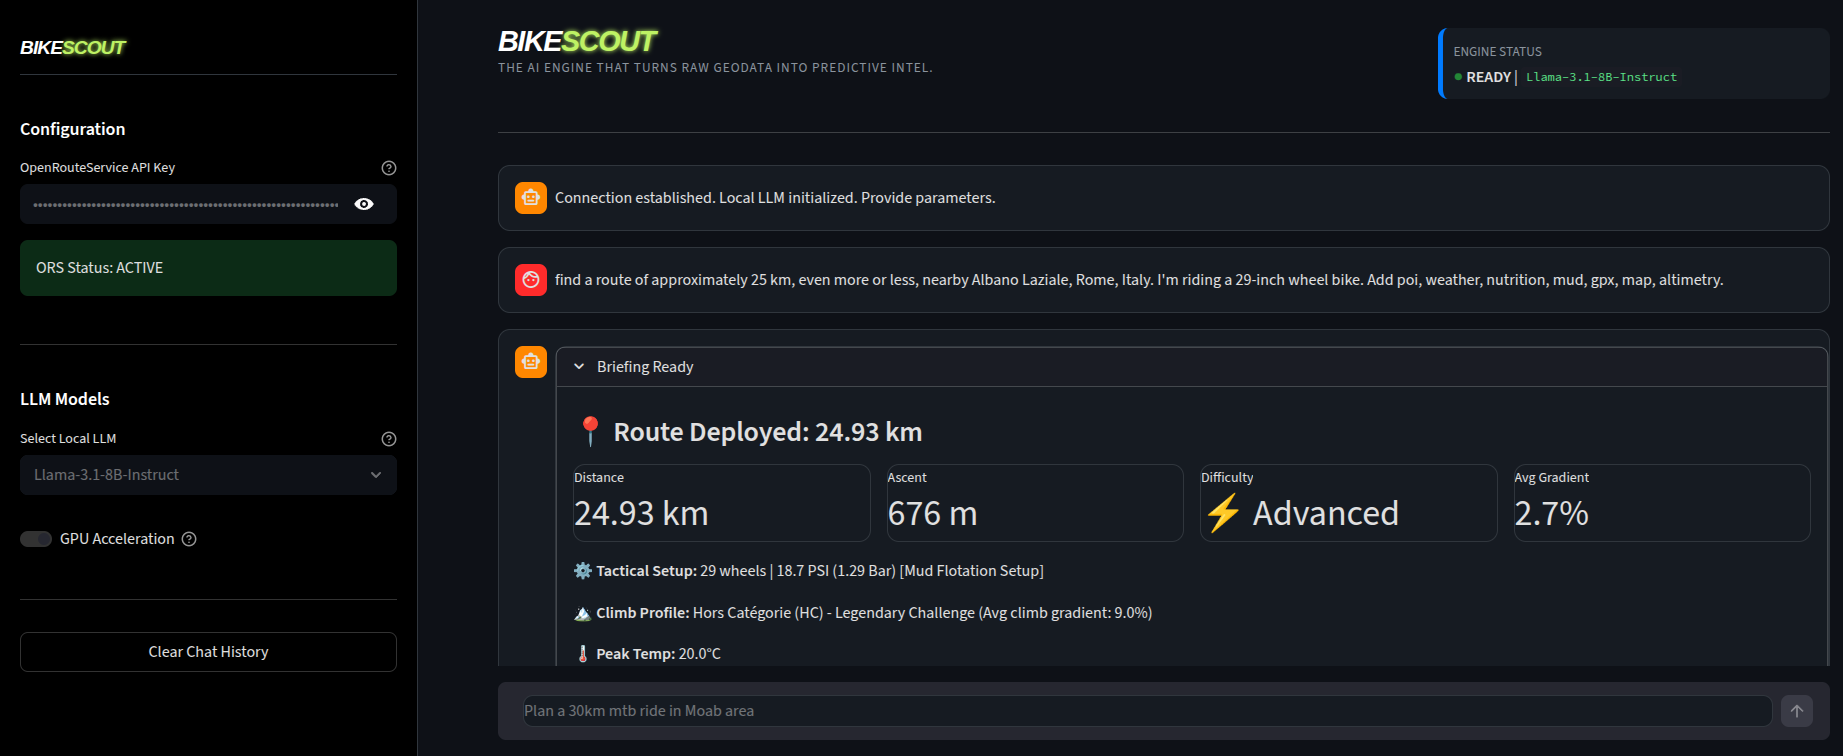
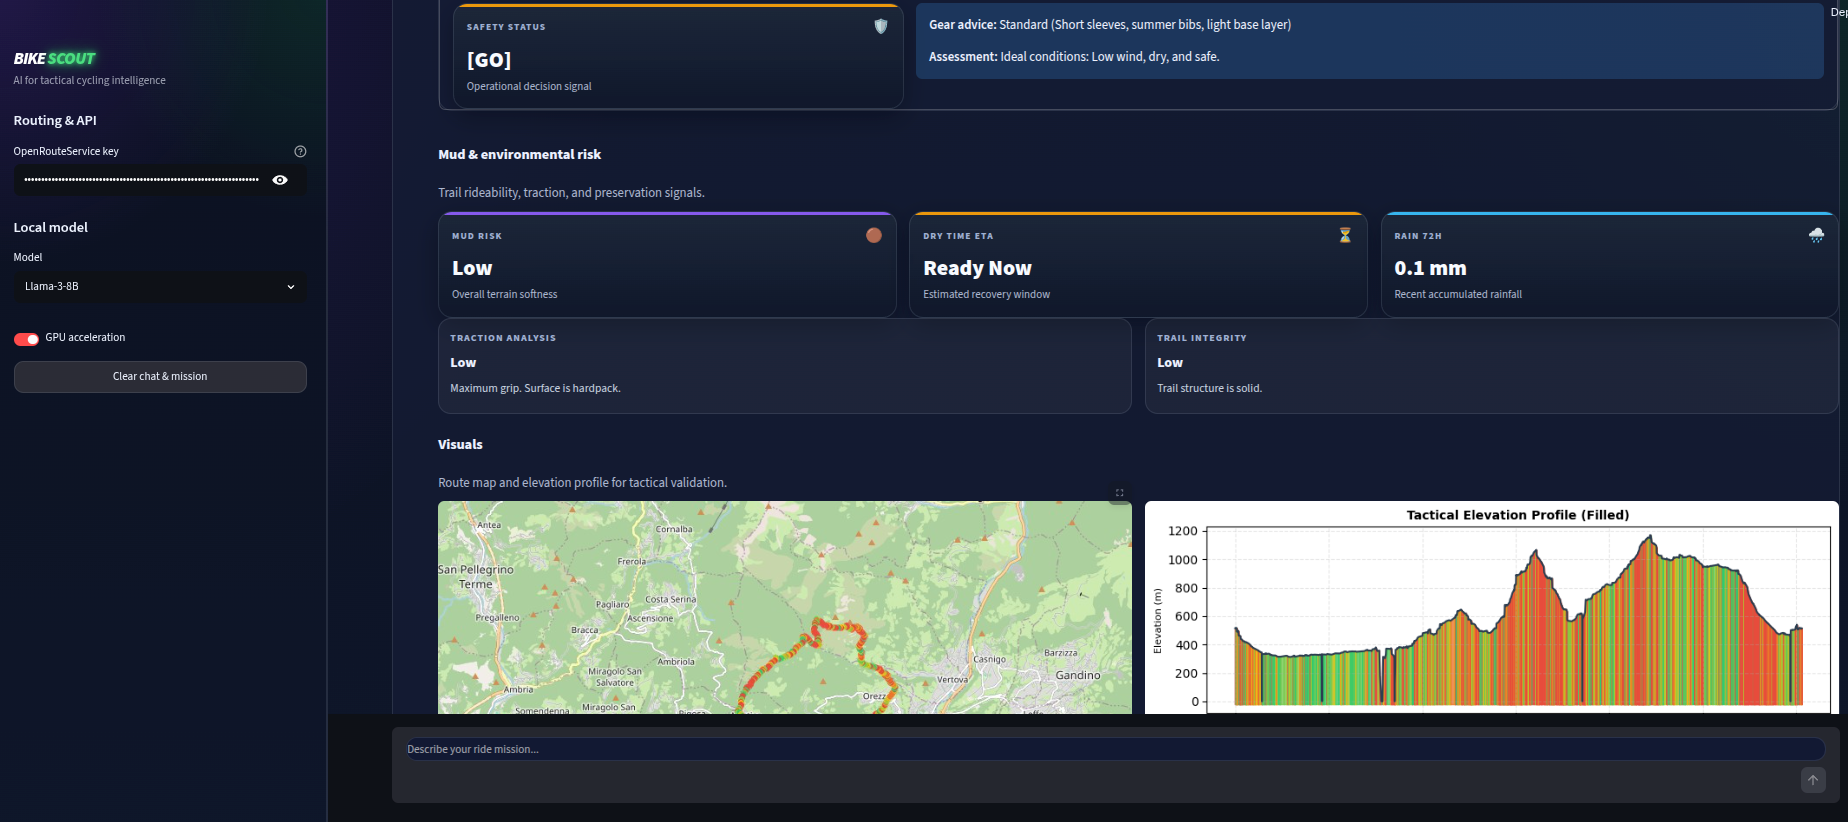
release: prepare version 1.5.2

diff --git a/docs/documentation/api-reference.html b/docs/documentation/api-reference.html
@@ -35,7 +35,7 @@
             "operatingSystem": "Independent",
             "downloadUrl": "https://github.com/hifly81/bikescout",
             "license": "https://www.gnu.org/licenses/agpl-3.0-standalone.html",
-            "softwareVersion": "1.5.1",
+            "softwareVersion": "1.5.2",
             "keywords": "AI, cycling intelligence, predictive mud logic, S-Scale MTB, OpenStreetMap AI, tactical cycling",
             "author": {
                 "@type": "Person",
@@ -157,7 +157,7 @@
     <section id="api-reference" class="block">
         <header class="mb-10">
             <h2 class="text-4xl font-black neon-text mb-4">API Reference</h2>
-            <h3 class="text-2xl font-black neon-text mb-4">version 1.5.1</h3>
+            <h3 class="text-2xl font-black neon-text mb-4">version 1.5.2</h3>
         </header>
 
         <!-- Schemas -->

diff --git a/docs/documentation/index.html b/docs/documentation/index.html
@@ -39,7 +39,7 @@
             "operatingSystem": "Independent",
             "downloadUrl": "https://github.com/hifly81/bikescout",
             "license": "https://www.gnu.org/licenses/agpl-3.0-standalone.html",
-            "softwareVersion": "1.5.1",
+            "softwareVersion": "1.5.2",
             "keywords": "AI, cycling intelligence, predictive mud logic, S-Scale MTB, OpenStreetMap AI, tactical cycling",
             "author": {
                 "@type": "Person",

diff --git a/docs/race/capoliveri2026.html b/docs/race/capoliveri2026.html
@@ -35,7 +35,7 @@
             "operatingSystem": "Independent",
             "downloadUrl": "https://github.com/hifly81/bikescout",
             "license": "https://www.gnu.org/licenses/agpl-3.0-standalone.html",
-            "softwareVersion": "1.5.1",
+            "softwareVersion": "1.5.2",
             "keywords": "AI, cycling intelligence, predictive mud logic, S-Scale MTB, OpenStreetMap AI, tactical cycling",
             "author": {
                 "@type": "Person",

diff --git a/docs/race/oropa.html b/docs/race/oropa.html
@@ -35,7 +35,7 @@
             "operatingSystem": "Independent",
             "downloadUrl": "https://github.com/hifly81/bikescout",
             "license": "https://www.gnu.org/licenses/agpl-3.0-standalone.html",
-            "softwareVersion": "1.5.1",
+            "softwareVersion": "1.5.2",
             "keywords": "AI, cycling intelligence, predictive mud logic, S-Scale MTB, OpenStreetMap AI, tactical cycling",
             "author": {
                 "@type": "Person",

diff --git a/docs/race/formia_block2026.html b/docs/race/formia_block2026.html
@@ -35,7 +35,7 @@
             "operatingSystem": "Independent",
             "downloadUrl": "https://github.com/hifly81/bikescout",
             "license": "https://www.gnu.org/licenses/agpl-3.0-standalone.html",
-            "softwareVersion": "1.5.1",
+            "softwareVersion": "1.5.2",
             "keywords": "AI, cycling intelligence, Giro 2026, Road Racing, OpenStreetMap AI, tactical cycling",
             "author": {
                 "@type": "Person",

diff --git a/docs/about.html b/docs/about.html
@@ -35,7 +35,7 @@
   "operatingSystem": "Independent",
   "downloadUrl": "https://github.com/hifly81/bikescout",
   "license": "https://www.gnu.org/licenses/agpl-3.0-standalone.html",
-  "softwareVersion": "1.5.1",
+  "softwareVersion": "1.5.2",
   "keywords": "AI, cycling intelligence, predictive mud logic, S-Scale MTB, OpenStreetMap AI, tactical cycling",
   "author": {
     "@type": "Person",

diff --git a/docs/blog.html b/docs/blog.html
@@ -35,7 +35,7 @@
   "operatingSystem": "Independent",
   "downloadUrl": "https://github.com/hifly81/bikescout",
   "license": "https://www.gnu.org/licenses/agpl-3.0-standalone.html",
-  "softwareVersion": "1.5.1",
+  "softwareVersion": "1.5.2",
   "keywords": "AI, cycling intelligence, predictive mud logic, S-Scale MTB, OpenStreetMap AI, tactical cycling",
   "author": {
     "@type": "Person",

diff --git a/docs/blog/hello_bikers.html b/docs/blog/hello_bikers.html
@@ -35,7 +35,7 @@
   "operatingSystem": "Independent",
   "downloadUrl": "https://github.com/hifly81/bikescout",
   "license": "https://www.gnu.org/licenses/agpl-3.0-standalone.html",
-  "softwareVersion": "1.5.1",
+  "softwareVersion": "1.5.2",
   "keywords": "AI, cycling intelligence, predictive mud logic, S-Scale MTB, OpenStreetMap AI, tactical cycling",
   "author": {
     "@type": "Person",

diff --git a/docs/blog/wallsense.html b/docs/blog/wallsense.html
@@ -35,7 +35,7 @@
   "operatingSystem": "Independent",
   "downloadUrl": "https://github.com/hifly81/bikescout",
   "license": "https://www.gnu.org/licenses/agpl-3.0-standalone.html",
-  "softwareVersion": "1.5.1",
+  "softwareVersion": "1.5.2",
   "keywords": "AI, cycling intelligence, predictive mud logic, S-Scale MTB, OpenStreetMap AI, tactical cycling",
   "author": {
     "@type": "Person",

diff --git a/docs/cycling_encyclopedia.html b/docs/cycling_encyclopedia.html
@@ -35,7 +35,7 @@
   "operatingSystem": "Independent",
   "downloadUrl": "https://github.com/hifly81/bikescout",
   "license": "https://www.gnu.org/licenses/agpl-3.0-standalone.html",
-  "softwareVersion": "1.5.1",
+  "softwareVersion": "1.5.2",
   "keywords": "AI, cycling intelligence, predictive mud logic, S-Scale MTB, OpenStreetMap AI, tactical cycling",
   "author": {
     "@type": "Person",

diff --git a/docs/encyclopedia/asi_enc.html b/docs/encyclopedia/asi_enc.html
@@ -35,7 +35,7 @@
   "operatingSystem": "Independent",
   "downloadUrl": "https://github.com/hifly81/bikescout",
   "license": "https://www.gnu.org/licenses/agpl-3.0-standalone.html",
-  "softwareVersion": "1.1.0",
+  "softwareVersion": "1.5.2",
   "keywords": "AI, cycling intelligence, predictive mud logic, S-Scale MTB, OpenStreetMap AI, tactical cycling",
   "author": {
     "@type": "Person",

diff --git a/docs/encyclopedia/dst_enc.html b/docs/encyclopedia/dst_enc.html
@@ -35,7 +35,7 @@
   "operatingSystem": "Independent",
   "downloadUrl": "https://github.com/hifly81/bikescout",
   "license": "https://www.gnu.org/licenses/agpl-3.0-standalone.html",
-  "softwareVersion": "1.5.1",
+  "softwareVersion": "1.5.2",
   "keywords": "AI, cycling intelligence, predictive mud logic, S-Scale MTB, OpenStreetMap AI, tactical cycling",
   "author": {
     "@type": "Person",
